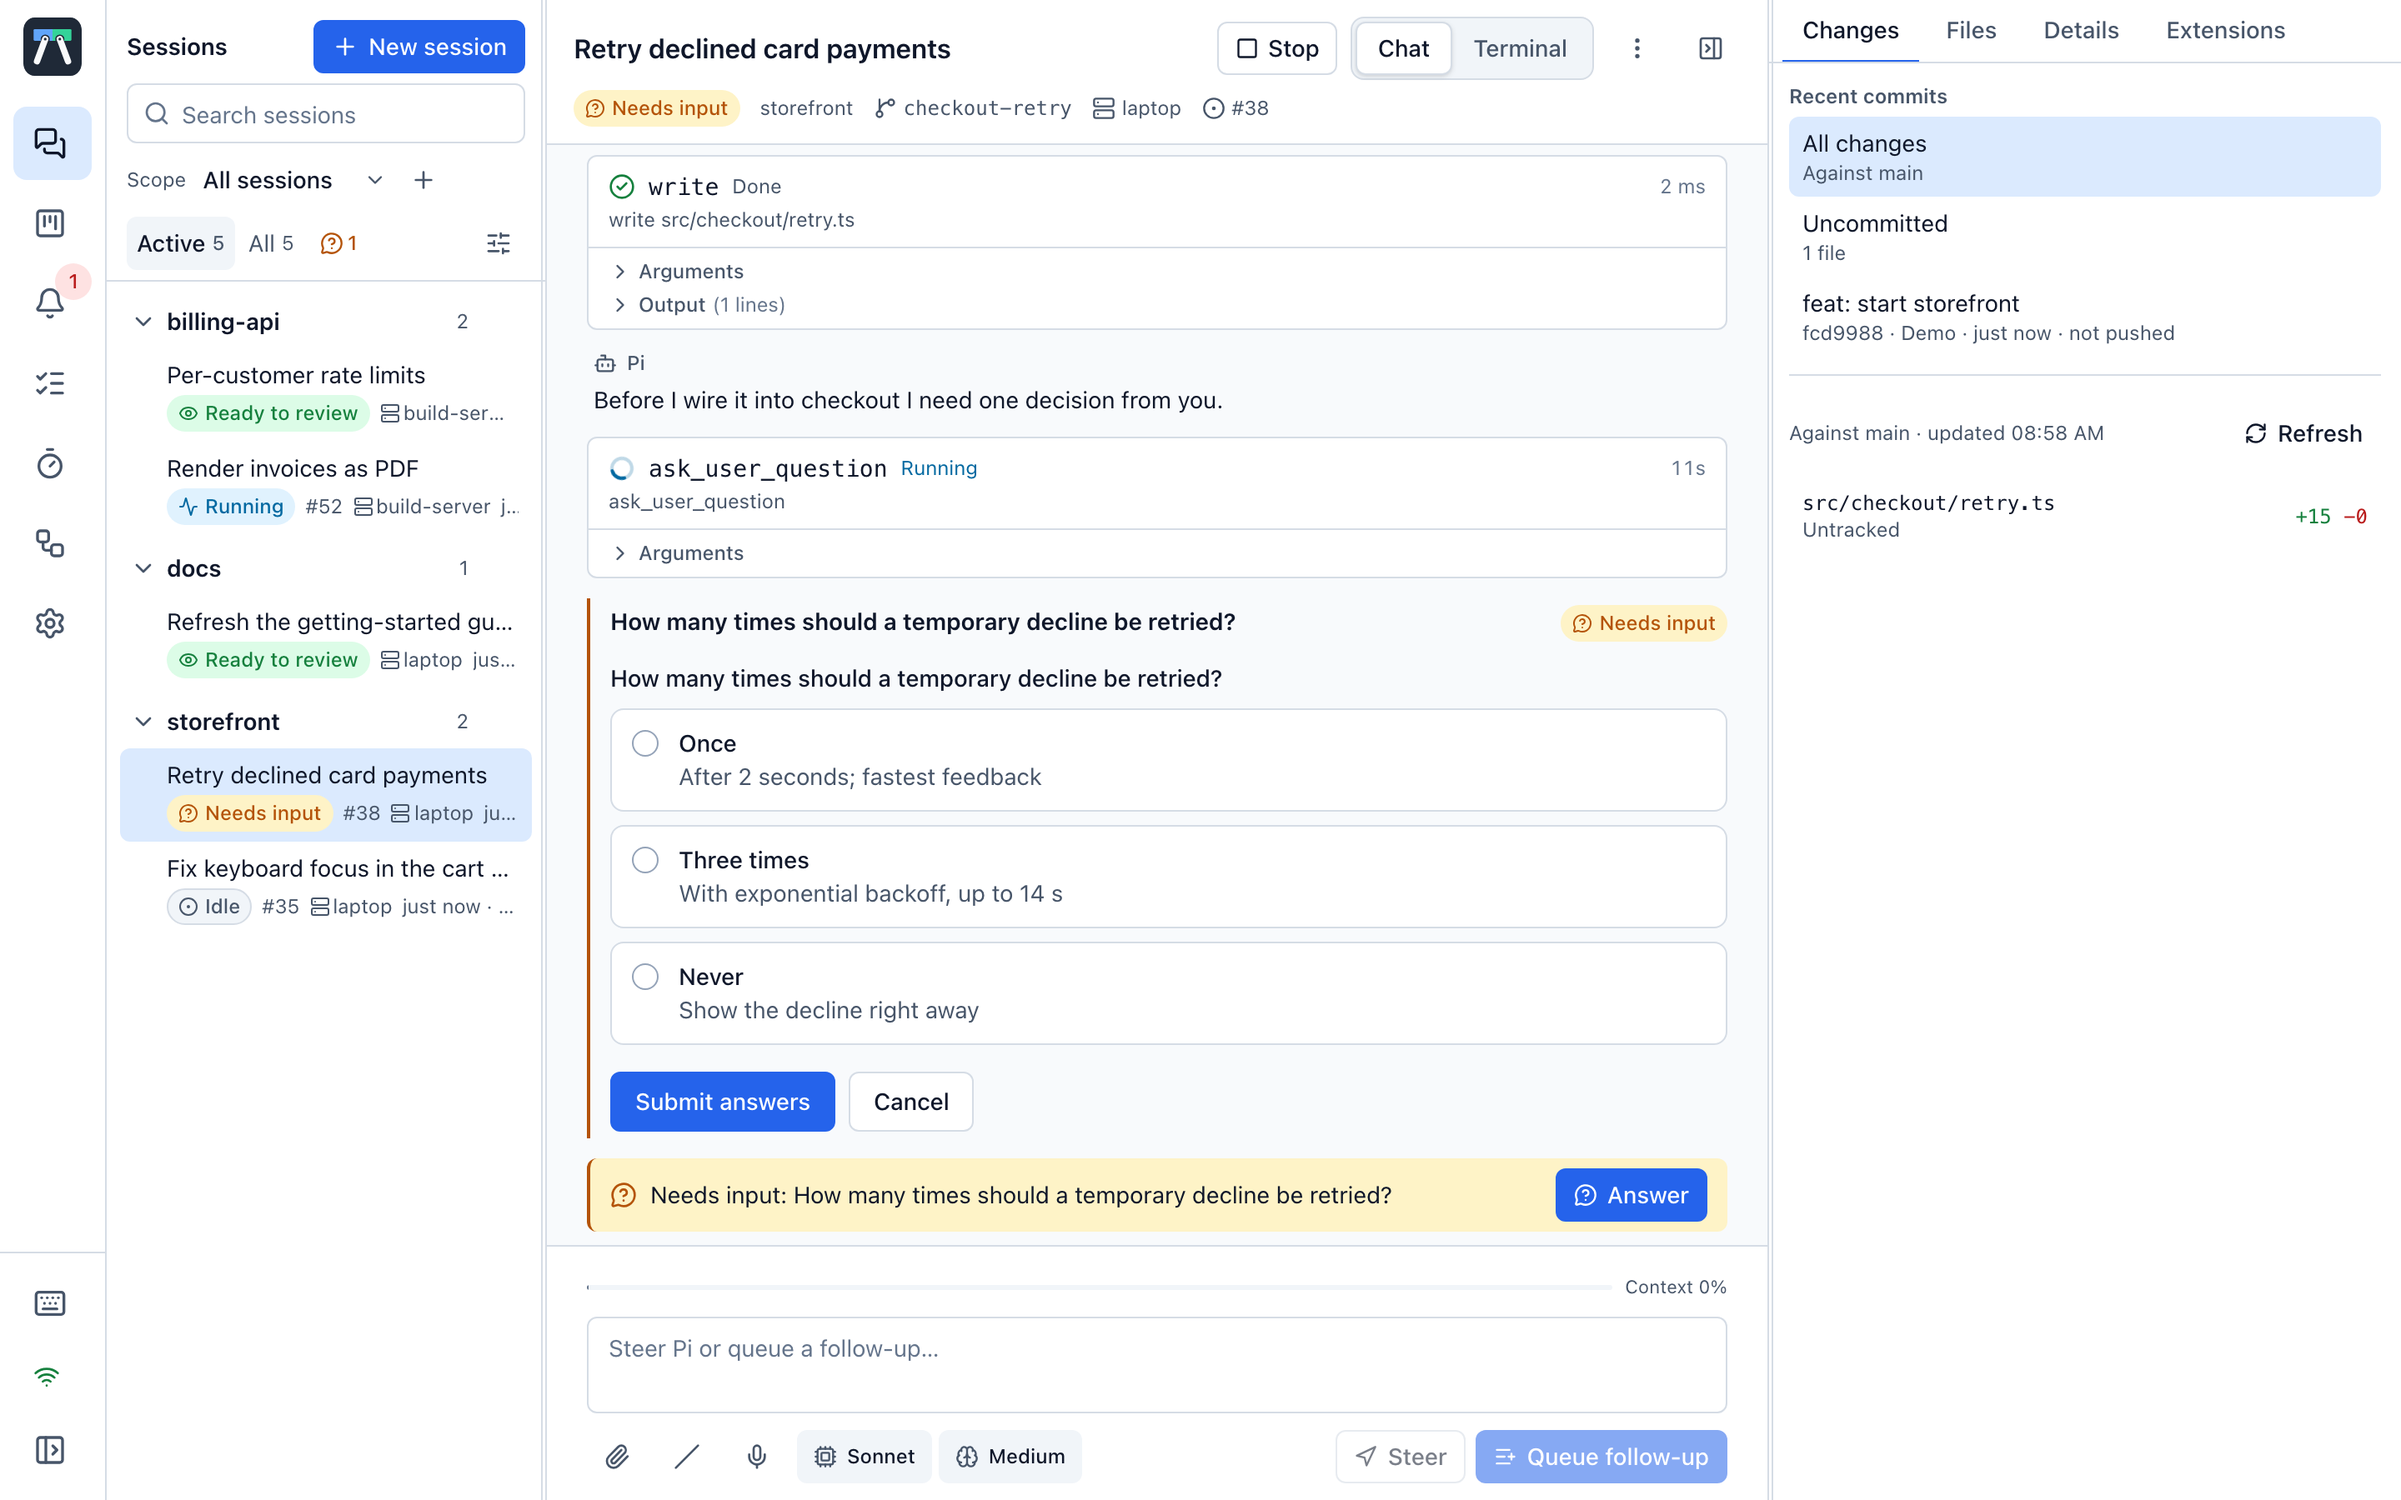
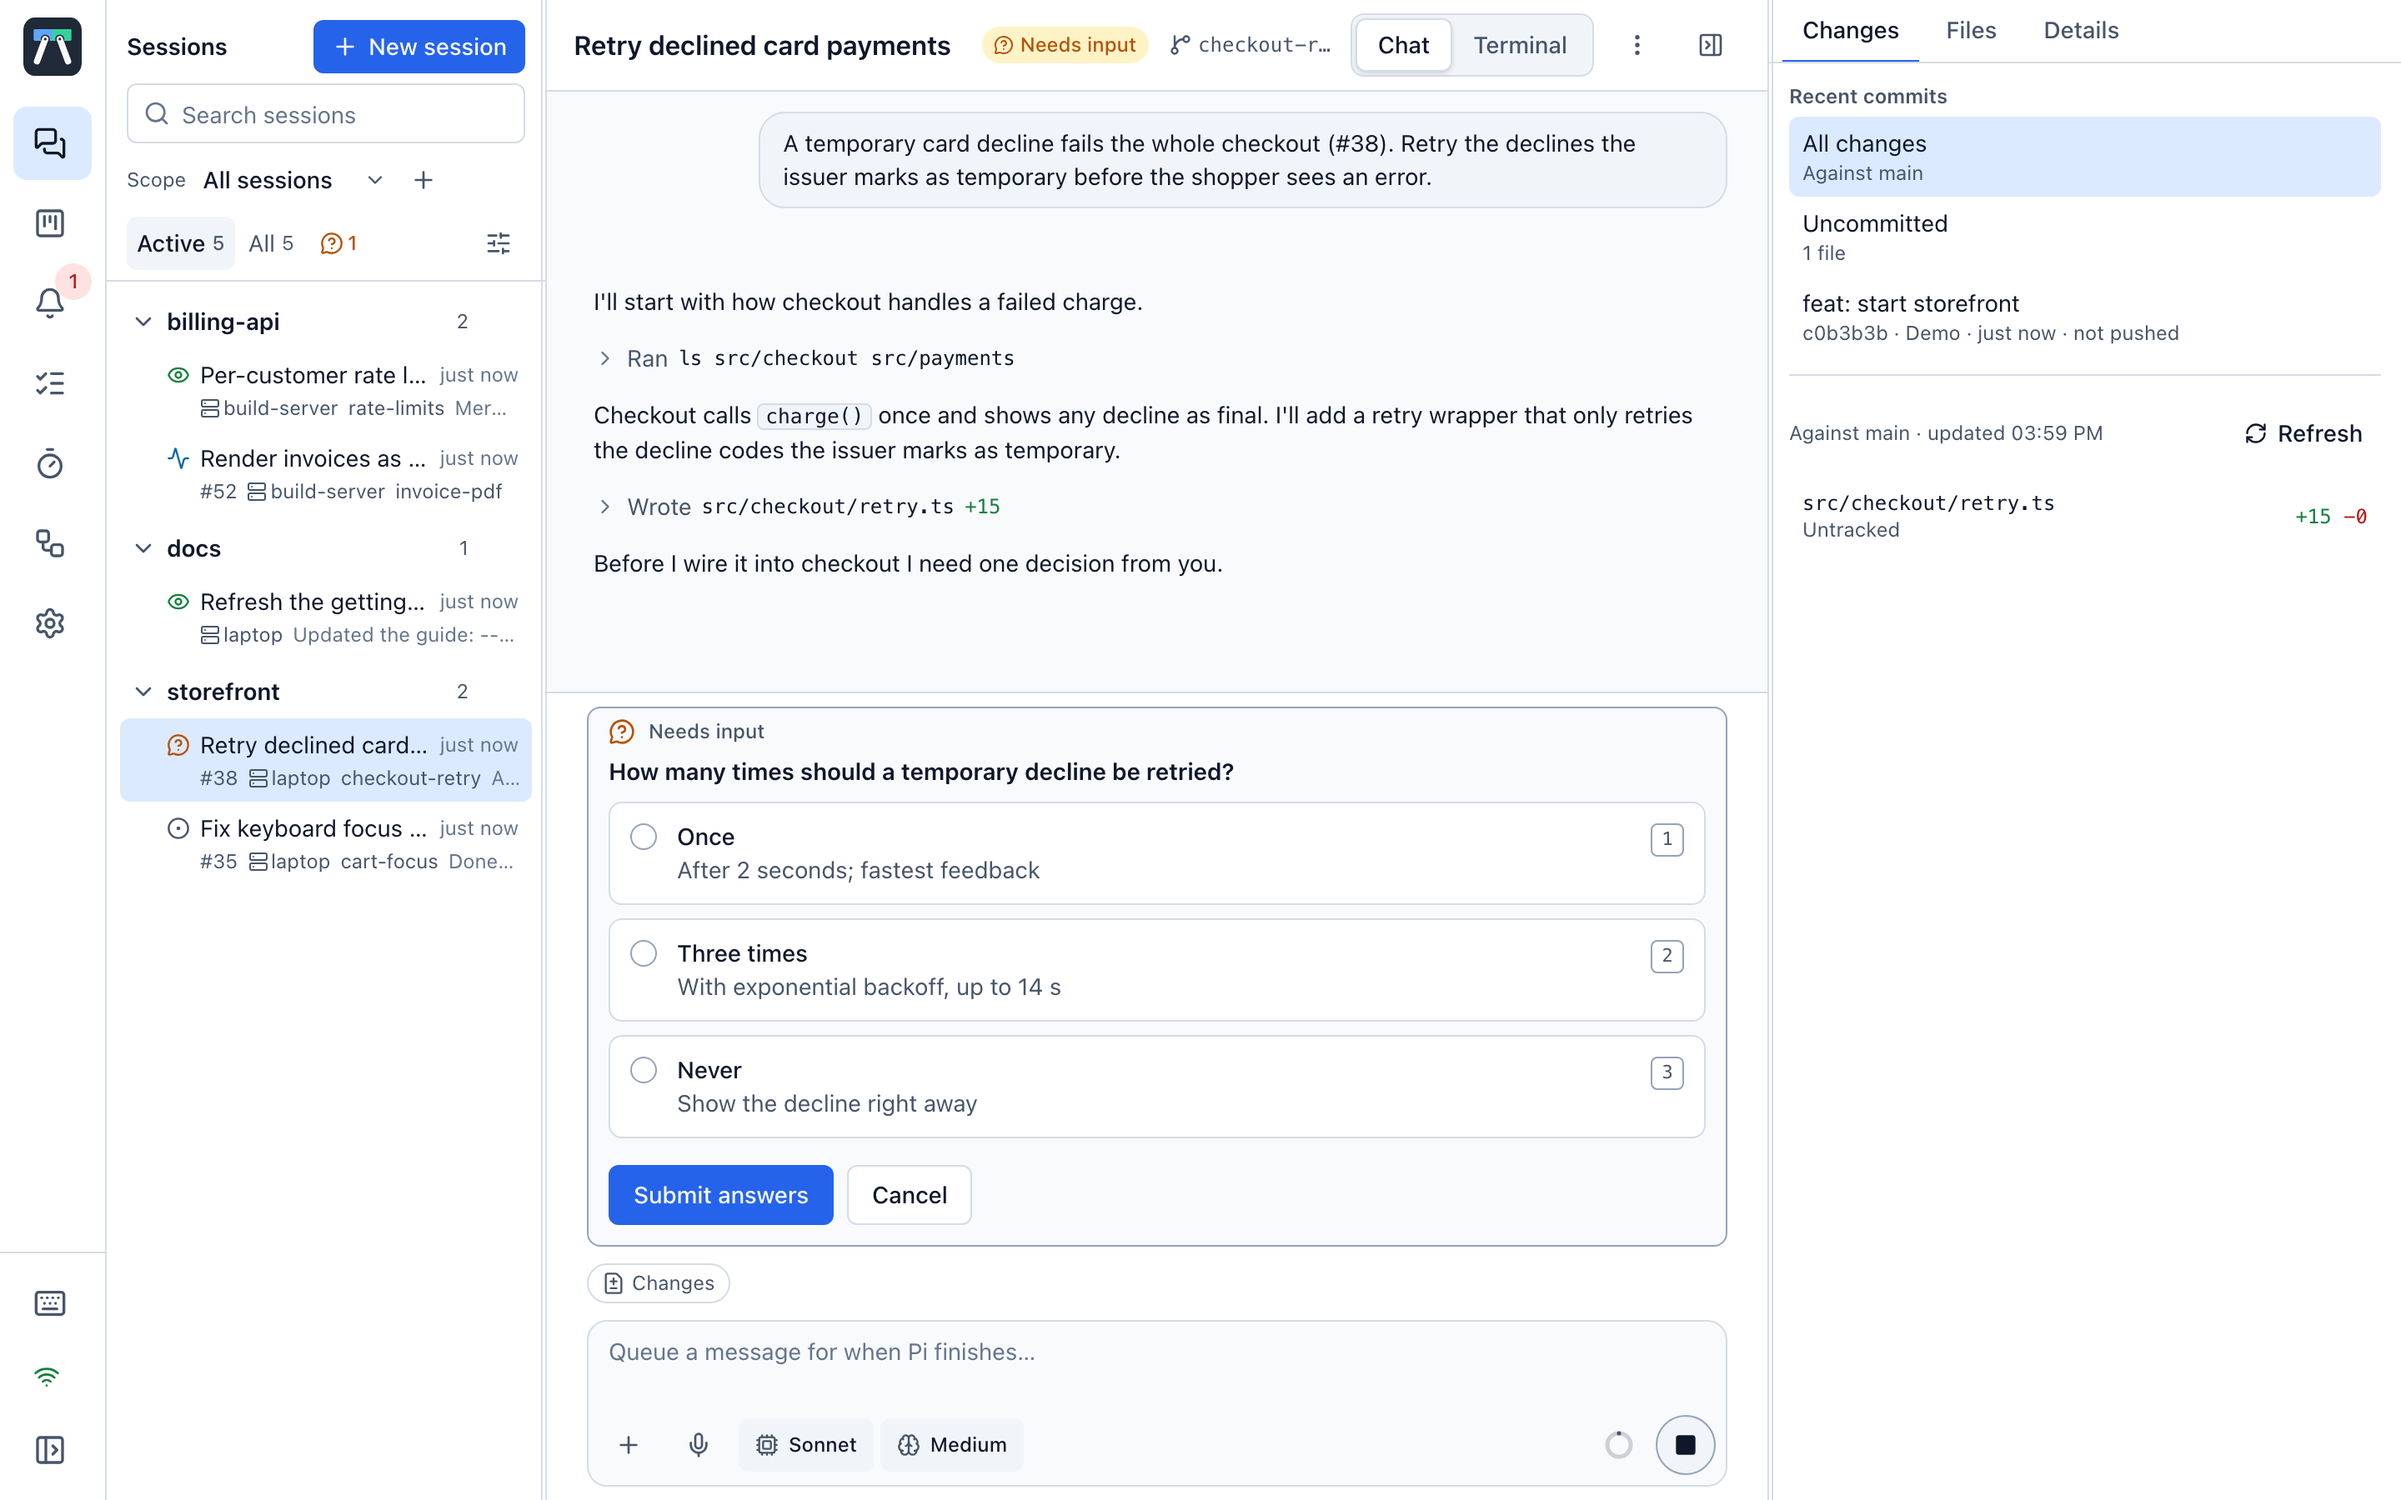
docs(site): regenerate screenshots after the session redesign

diff --git a/docs/roadmap.md b/docs/roadmap.md
@@ -143,10 +143,10 @@ Each phase ships and is reviewed on a deployment on its own. A phase is a scope;
 
 - **S1 Transcript** (on `dev` since 2026-11-26, web only). One line per tool call with typed detail; unboxed messages; a turn fold with a sentence summary; Tool activity Detailed / Normal / Summary.
 - **S2 Request dock and composer** (on `dev` since 2026-11-26, web only). A pending question, approval or plan answer is docked above the input, not in the transcript; the transcript keeps one outcome line where it happened. A plan keeps its reader in the transcript column and its answers in the dock; a form with several questions gets step chips. The "Needs input" strip goes. The input is one card with one row: a `+` menu, mic, the model and effort pills, a context ring that opens context, tokens, cost, subscription limits and Compact, and one round button (Send when idle, Stop when running with an empty draft, Send with a small Stop beside it when running with a draft). A per-device setting chooses what Send does while Pi works (Queue, the default, or Steer); Cmd/Ctrl+Enter or the `+` menu does the other. Queued messages are listed above the input. A suggested next message is a chip in the card. A tracker row above the input holds a Changes pill and the adapters' pills.
-- **S2b Session chrome** (on `dev` since 2026-11-26, web only). The desktop header is one row: title, status, then branch, host, issue and project as the width allows. On a phone the tab strip is gone: the chat fills the screen, a header button with the changed-file count opens Changes, PR and Details as one panel over the chat, and Terminal opens from the overflow menu. The panel is a history entry, so Back returns to the chat. Site screenshots are regenerated once, after S5.
+- **S2b Session chrome** (on `dev` since 2026-11-26, web only). The desktop header is one row: title, status, then branch, host, issue and project as the width allows. On a phone the tab strip is gone: the chat fills the screen, a header button with the changed-file count opens Changes, PR and Details as one panel over the chat, and Terminal opens from the overflow menu. The panel is a history entry, so Back returns to the chat.
 - **S3 Adapter contract v2** (on `dev` since 2026-11-26; protocol, adapter-sdk, host-agent, coordinator, web). `describeTool` lives in `@switchyard/protocol`; the host adds what Pi's result says (an edit's real diff, a failed command's exit code) and an adapter's `toolView(tool, ctx)` (kind, verbs, target, counts, a detail node, `hide`) goes on top; `toolCard` stays as the legacy form. New nodes `checklist`, `facts`, `rows` and `badge`, `section.open`, and a `url` ref. New placements `composer.tracker` (title, count, status, current step, detail node) and `session.badge` (carried to the web store; S5 draws it); `composer.pill` is unchanged. `Claim.kind` and `Interaction.kind` and `toolCallId`: a question hides its tool call's row and takes number keys, an approval does neither. `session.clearQueue` and Edit queue. Unclaimed statuses are one Status tracker. Negotiation: host feature `adapterContract.v2` and client capabilities `tool.views.v1`, `ui.nodes.v2` and `adapter.trackers.v1`, with the host and the coordinator each sending version 1 shapes to a peer that did not ask for more; adapters read `ctx.features`. The contract as one type file: `packages/adapter-sdk/src/contract.ts`.
-- **S4 pi-plugins adapters on v2** (pi-plugins). ask-user-question: a dock form with step chips, the tool row hidden, an outcome line. tool-gate: an approval as facts plus the command, structured from a plugin-published entry instead of title parsing, and a mode tracker. plan-mode: the reader plus dock answers, and a Plan tracker. todo: a checklist tracker (`Todo 2/5 · current step`) and grouped update rows. subagents and bg: trackers with rows (name, status, elapsed, open link), verbs for their tools, and structured job data instead of status-text parsing. Small tool-view adapters for next-prompt, issues, ship, herdr and system1.
-- **S5 Navigator and attention** (on `dev` since 2026-11-26, web only). A session row is a status mark, the title and the time, then its context, the adapters' `session.badge` words and a one-line preview (the pending question, the failure, else the first line of the last reply, all from fields the client already has). The Extensions tab is gone: extension panels and an Extensions line with the adapter diagnostics are in Details. On the Attention page a pending question looks as it does in the dock. The site screenshots are regenerated once S4 has landed too.
+- **S4 pi-plugins adapters on v2** (released as pi-plugins v0.1.113 on 2026-11-26; pinned by `.github/compat-pi-plugins.json`). ask-user-question: a dock form with step chips, the tool row hidden, an outcome line. tool-gate: an approval as facts plus the command, structured from a plugin-published entry instead of title parsing, and a mode tracker. plan-mode: the reader plus dock answers, and a Plan tracker. todo: a checklist tracker (`Todo 2/5 · current step`) and grouped update rows. subagents and bg: trackers with rows (name, status, elapsed, open link), verbs for their tools, and structured job data instead of status-text parsing. Small tool-view adapters for next-prompt, issues, ship, herdr and system1.
+- **S5 Navigator and attention** (on `dev` since 2026-11-26, web only). A session row is a status mark, the title and the time, then its context, the adapters' `session.badge` words and a one-line preview (the pending question, the failure, else the first line of the last reply, all from fields the client already has). The Extensions tab is gone: extension panels and an Extensions line with the adapter diagnostics are in Details. On the Attention page a pending question looks as it does in the dock. The site screenshots were regenerated on 2026-11-26, after S4 and S5.
 
 Ownership ([plugin-boundaries.md](plugin-boundaries.md)): Pi and plugins stay the authority for workflows; tool views, trackers and badges are presentation derived by the host or an adapter and cached by the coordinator. With an adapter absent or failed, core shows the generic row (tool name, first argument, arguments and output), generic dialogs in the dock and unclaimed statuses in the Status tracker; nothing is answered automatically. Web and coordinator never branch on a plugin or adapter id; verbs exist only for Pi's own built-in tools.
 
